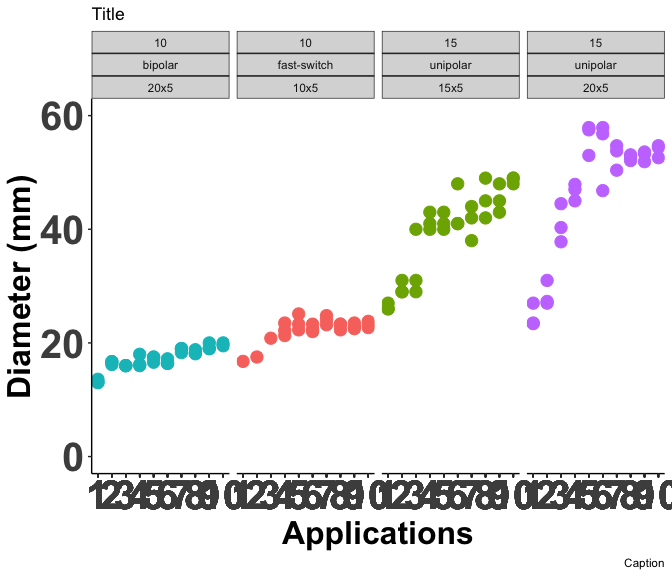
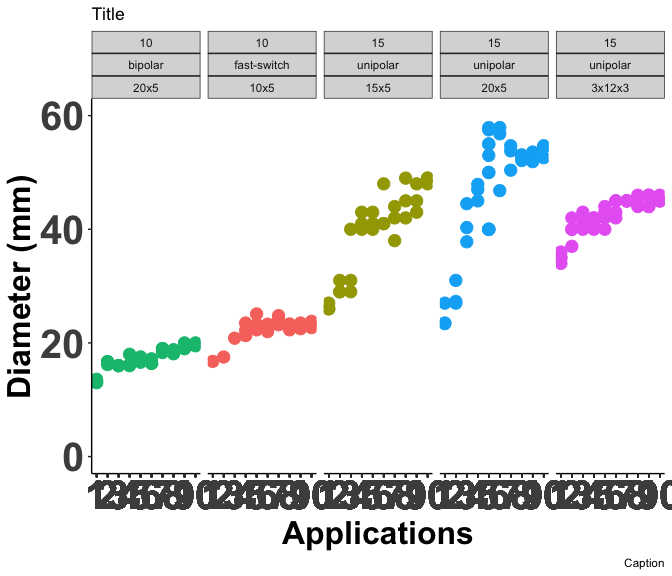
update summary stats with 3x12x3 dr data

diff --git a/code/step_4_regression.md b/code/step_4_regression.md
@@ -1,7 +1,7 @@
 ---
 title: "Regression Modeling" 
 author: "Jonathan Salas"
-date: "02 August, 2024"
+date: "07 August, 2024"
 output: 
   html_document: 
     df_print: kable
@@ -227,11 +227,29 @@ output:
 ```
 
 ```
+## `geom_smooth()` using formula = 'y ~ x'
+```
+
+```
+## Warning: Removed 4 rows containing non-finite outside the scale range
+## (`stat_smooth()`).
+```
+
+```
 ## Warning: Removed 4 rows containing missing values or values outside the scale range
 ## (`geom_point()`).
 ```
 
 ![](step_4_regression_files/figure-html/unnamed-chunk-20-1.png)<!-- -->
+
+```
+## `geom_smooth()` using formula = 'y ~ x'
+```
+
+```
+## Warning: Removed 4 rows containing non-finite outside the scale range
+## (`stat_smooth()`).
+```
 
 ```
 ## `geom_smooth()` using formula = 'y ~ x'
@@ -465,14 +483,14 @@ output:
 ## Parameter estimates:
 ## 
 ##                         Estimate Std. Error t-value   p-value    
-## Upper Limit:(Intercept) 17.16648    0.39087 43.9181 < 2.2e-16 ***
-## Steepness:(Intercept)    1.60711    0.16605  9.6785  1.97e-10 ***
+## Upper Limit:(Intercept) 17.25137    0.44470 38.7936 < 2.2e-16 ***
+## Steepness:(Intercept)    1.60752    0.20058  8.0142  1.61e-09 ***
 ## ---
 ## Signif. codes:  0 '***' 0.001 '**' 0.01 '*' 0.05 '.' 0.1 ' ' 1
 ## 
 ## Residual standard error:
 ## 
-##  1.439016 (28 degrees of freedom)
+##  1.765625 (36 degrees of freedom)
 ```
 
 
@@ -498,14 +516,14 @@ output:
 ## Parameter estimates:
 ## 
 ##                         Estimate Std. Error t-value   p-value    
-## Upper Limit:(Intercept) 55.29198    1.24746  44.324 < 2.2e-16 ***
-## Steepness:(Intercept)    2.11178    0.17611  11.991 1.515e-12 ***
+## Upper Limit:(Intercept) 54.61893    1.59619 34.2183 < 2.2e-16 ***
+## Steepness:(Intercept)    2.16594    0.23647  9.1595 6.144e-11 ***
 ## ---
 ## Signif. codes:  0 '***' 0.001 '**' 0.01 '*' 0.05 '.' 0.1 ' ' 1
 ## 
 ## Residual standard error:
 ## 
-##  3.868866 (28 degrees of freedom)
+##  4.85146 (36 degrees of freedom)
 ```
 
 
@@ -531,14 +549,14 @@ output:
 ##         "unipolar"))
 ## Residuals:
 ##       Min        1Q    Median        3Q       Max 
-## -0.065463 -0.020227  0.002115  0.027351  0.119065 
+## -0.070874 -0.021965 -0.003102  0.026921  0.112490 
 ## 
 ## Coefficients:
 ##                 Value   Std. Error t value
-## (Intercept)      0.3612  0.0136    26.6386
-## application_num -0.0052  0.0022    -2.3597
+## (Intercept)      0.3686  0.0154    24.0098
+## application_num -0.0055  0.0026    -2.1570
 ## 
-## Residual standard error: 0.0373 on 28 degrees of freedom
+## Residual standard error: 0.03787 on 36 degrees of freedom
 ```
 
 ```
@@ -546,7 +564,7 @@ output:
 ## 	robust F-test (as if non-random weights)
 ## 
 ## data:  from rlm(formula = depth_per_width ~ application_num, data = working_dat, from     subset = (voltage == 15 & pulse_seq == "20x5" & waveform == from         "unipolar"))
-## F = 5.5857, p-value = 0.02528
+## F = 4.728, p-value = 0.03633
 ## alternative hypothesis: true application_num is not equal to 0
 ```
 
@@ -557,7 +575,128 @@ output:
 
 ![](step_4_regression_files/figure-html/unnamed-chunk-44-1.png)<!-- -->
 
-### Summary Plot
+## 15 kV Unipolar 3x12x3
+
+### 2-Parameter Nonlinear Asymptotic Regression
+
+#### Depth
+
+
+
+
+```
+## 
+## Model fitted: Asymptotic regression with lower limit at 0 (2 parms)
+## 
+## Parameter estimates:
+## 
+##                         Estimate Std. Error t-value   p-value    
+## Upper Limit:(Intercept) 14.08391    0.13381 105.257 < 2.2e-16 ***
+## Steepness:(Intercept)    1.27207    0.06391  19.904 < 2.2e-16 ***
+## ---
+## Signif. codes:  0 '***' 0.001 '**' 0.01 '*' 0.05 '.' 0.1 ' ' 1
+## 
+## Residual standard error:
+## 
+##  0.6376224 (38 degrees of freedom)
+```
+
+
+```
+## `geom_smooth()` using formula = 'y ~ x'
+```
+
+![](step_4_regression_files/figure-html/unnamed-chunk-47-1.png)<!-- -->
+
+#### Diameter
+
+
+
+
+
+
+```
+## 
+## Model fitted: Asymptotic regression with lower limit at 0 (2 parms)
+## 
+## Parameter estimates:
+## 
+##                          Estimate Std. Error t-value   p-value    
+## Upper Limit:(Intercept) 43.612759   0.339523  128.45 < 2.2e-16 ***
+## Steepness:(Intercept)    0.666417   0.046377   14.37 < 2.2e-16 ***
+## ---
+## Signif. codes:  0 '***' 0.001 '**' 0.01 '*' 0.05 '.' 0.1 ' ' 1
+## 
+## Residual standard error:
+## 
+##  1.872366 (38 degrees of freedom)
+```
+
+```
+## 
+## Call: rlm(formula = diameter ~ application_num, data = working_dat, 
+##     subset = (voltage == 15 & pulse_seq == "3x12x3" & waveform == 
+##         "unipolar"))
+## Residuals:
+##     Min      1Q  Median      3Q     Max 
+## -4.3081 -1.5902  0.2502  1.1705  2.8514 
+## 
+## Coefficients:
+##                 Value   Std. Error t value
+## (Intercept)     37.3879  0.5910    63.2622
+## application_num  0.9202  0.0952     9.6614
+## 
+## Residual standard error: 1.735 on 38 degrees of freedom
+```
+
+
+```
+## `geom_smooth()` using formula = 'y ~ x'
+```
+
+![](step_4_regression_files/figure-html/unnamed-chunk-51-1.png)<!-- -->
+
+#### Depth/Diameter Ratio
+
+
+
+
+```
+## 
+## Call: rlm(formula = depth_per_width ~ application_num, data = working_dat, 
+##     subset = (voltage == 15 & pulse_seq == "20x5" & waveform == 
+##         "unipolar"))
+## Residuals:
+##       Min        1Q    Median        3Q       Max 
+## -0.070874 -0.021965 -0.003102  0.026921  0.112490 
+## 
+## Coefficients:
+##                 Value   Std. Error t value
+## (Intercept)      0.3686  0.0154    24.0098
+## application_num -0.0055  0.0026    -2.1570
+## 
+## Residual standard error: 0.03787 on 36 degrees of freedom
+```
+
+```
+## 
+## 	robust F-test (as if non-random weights)
+## 
+## data:  from rlm(formula = depth_per_width ~ application_num, data = working_dat, from     subset = (voltage == 15 & pulse_seq == "20x5" & waveform == from         "unipolar"))
+## F = 4.728, p-value = 0.03633
+## alternative hypothesis: true application_num is not equal to 0
+```
+
+
+```
+## `geom_smooth()` using formula = 'y ~ x'
+```
+
+![](step_4_regression_files/figure-html/unnamed-chunk-54-1.png)<!-- -->
+
+
+
+## Summary Plot
 
 #### Diameter
 
@@ -576,17 +715,7 @@ output:
 ## (`geom_point()`).
 ```
 
-![](step_4_regression_files/figure-html/unnamed-chunk-45-1.png)<!-- -->
-
-```
-## `geom_smooth()` using formula = 'y ~ x'
-```
-
-```
-## Warning: Removed 6 rows containing non-finite outside the scale range (`stat_smooth()`).
-## Removed 6 rows containing missing values or values outside the scale range
-## (`geom_point()`).
-```
+![](step_4_regression_files/figure-html/unnamed-chunk-55-1.png)<!-- -->
 
 #### Depth
 
@@ -605,19 +734,9 @@ output:
 ## (`geom_point()`).
 ```
 
-![](step_4_regression_files/figure-html/unnamed-chunk-46-1.png)<!-- -->
+![](step_4_regression_files/figure-html/unnamed-chunk-56-1.png)<!-- -->
 
-```
-## `geom_smooth()` using formula = 'y ~ x'
-```
-
-```
-## Warning: Removed 4 rows containing non-finite outside the scale range (`stat_smooth()`).
-## Removed 4 rows containing missing values or values outside the scale range
-## (`geom_point()`).
-```
-
-### Depth/Diameter Ratio Regression Plot
+#### Depth/Diameter Ratio Regression Plot
 
 
 ```
@@ -634,7 +753,7 @@ output:
 ## (`geom_point()`).
 ```
 
-![](step_4_regression_files/figure-html/unnamed-chunk-47-1.png)<!-- -->
+![](step_4_regression_files/figure-html/unnamed-chunk-57-1.png)<!-- -->
 
 ```
 ## `geom_smooth()` using formula = 'y ~ x'
@@ -659,23 +778,17 @@ output:
 
 <div class="kable-table">
 
-|         |package  |loadedversion |
-|:--------|:--------|:-------------|
-|aomisc   |aomisc   |0.652         |
-|dplyr    |dplyr    |1.1.4         |
-|drc      |drc      |3.2-0         |
-|drcData  |drcData  |1.1-3         |
-|emmeans  |emmeans  |1.10.2        |
-|ggplot2  |ggplot2  |3.5.1         |
-|knitr    |knitr    |1.47          |
-|MASS     |MASS     |7.3-61        |
-|Matrix   |Matrix   |1.7-0         |
-|medrc    |medrc    |1.1-0         |
-|metadat  |metadat  |1.2-0         |
-|metafor  |metafor  |4.6-0         |
-|nlme     |nlme     |3.1-165       |
-|numDeriv |numDeriv |2016.8-1.1    |
-|sfsmisc  |sfsmisc  |1.1-18        |
+|        |package |loadedversion |
+|:-------|:-------|:-------------|
+|aomisc  |aomisc  |0.652         |
+|dplyr   |dplyr   |1.1.4         |
+|drc     |drc     |3.2-0         |
+|drcData |drcData |1.1-3         |
+|emmeans |emmeans |1.10.2        |
+|ggplot2 |ggplot2 |3.5.1         |
+|knitr   |knitr   |1.47          |
+|MASS    |MASS    |7.3-61        |
+|sfsmisc |sfsmisc |1.1-18        |
 
 </div>
 
@@ -683,5 +796,5 @@ output:
 
 
 ```
-## [1] "Fri Aug  2 07:13:28 2024"
+## [1] "Wed Aug  7 08:52:41 2024"
 ```

diff --git a/code/step_3_descriptive_stats.md b/code/step_3_descriptive_stats.md
@@ -1,7 +1,7 @@
 ---
 title: "Dose-Response Descriptive Statistics" 
 author: "Jonathan Salas"
-date: "02 August, 2024"
+date: "07 August, 2024"
 output: 
   html_document: 
     df_print: kable
@@ -43,7 +43,8 @@ output:
 |bipolar     |10      |20x5      | 30|         5.25|     1.000|           17.35|        2.750|                   0.31|              0.0275|
 |fast-switch |10      |10x5      | 30|         9.35|     2.925|           23.00|        1.075|                   0.41|              0.1225|
 |unipolar    |15      |15x5      | 30|        16.00|     7.925|           41.00|       12.000|                   0.39|              0.0925|
-|unipolar    |15      |20x5      | 30|        15.75|     3.000|           52.00|       12.400|                   0.33|              0.0400|
+|unipolar    |15      |20x5      | 38|        15.80|     3.350|           50.20|       13.750|                   0.33|              0.0475|
+|unipolar    |15      |3x12x3    | 40|        14.00|     1.250|           43.00|        4.250|                   0.31|              0.0200|
 
 </div>
 
@@ -188,5 +189,5 @@ output:
 
 
 ```
-## [1] "Fri Aug  2 07:13:17 2024"
+## [1] "Wed Aug  7 09:05:07 2024"
 ```
